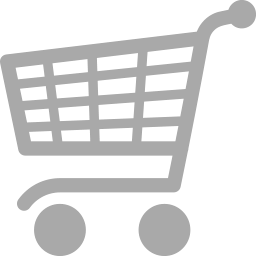
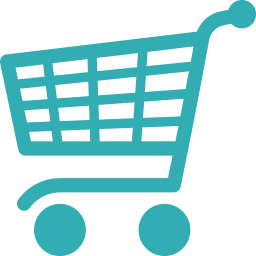
Changement du footer et modification de l'affichage de l'agenda (icone panier)

diff --git a/php/fonctions.php b/php/fonctions.php
@@ -956,10 +956,10 @@ function compteurPanier($bdd, $idco) {
                           <TH class ="col" height=60 width=100 ><FONT style="color : #32787A; font-weight:normal;"> Panier </FONT><br><FONT size="5" style="color : #11ABB0;">' . $cpt . ' </FONT></TH>
                    
                             <Td class ="col" height=60 width=100 >
-                              <form action="agendaPanier.php" method="post" style = "margin-bottom : 0; margin-left : 25px"> 
+                              <form action="agendaPanier.php" method="post" style = "margin-bottom : 0; margin-left : 10px"> 
                                    
                                    <input type="image" src="images/panier.png" " name="panier"  style= "height : 50px; width : 50px">
-                         <input type="hidden"  name="idco" value="' . $idco . '">
+                                   <input type="hidden"  name="idco" value="' . $idco . '">
                                  </form>
                              </td> 
                    
@@ -1985,7 +1985,9 @@ function afficheFooter() {
                 <div class="col g-7">
                     <ul class="copyright">
                         <li>&copy; 2016 Lions Clubs</li>
-                        <li>Design by <a href="http://www.styleshout.com//" title="styleshout"> Styleshout</a></li>               
+                        <li>Design by <a href="http://www.styleshout.com//" title="styleshout"> Styleshout</a></li>  
+                        <br>                       
+                        <a> <FONT style ="color: #444">Developped  by </FONT>Thomas MICHELS <FONT style ="color: #444">and </FONT>Laura GUILLOT <FONT style ="color: #444">, </FONT> Ecole Centrale de Nantes <a>
                     </ul>
                 </div>
 
